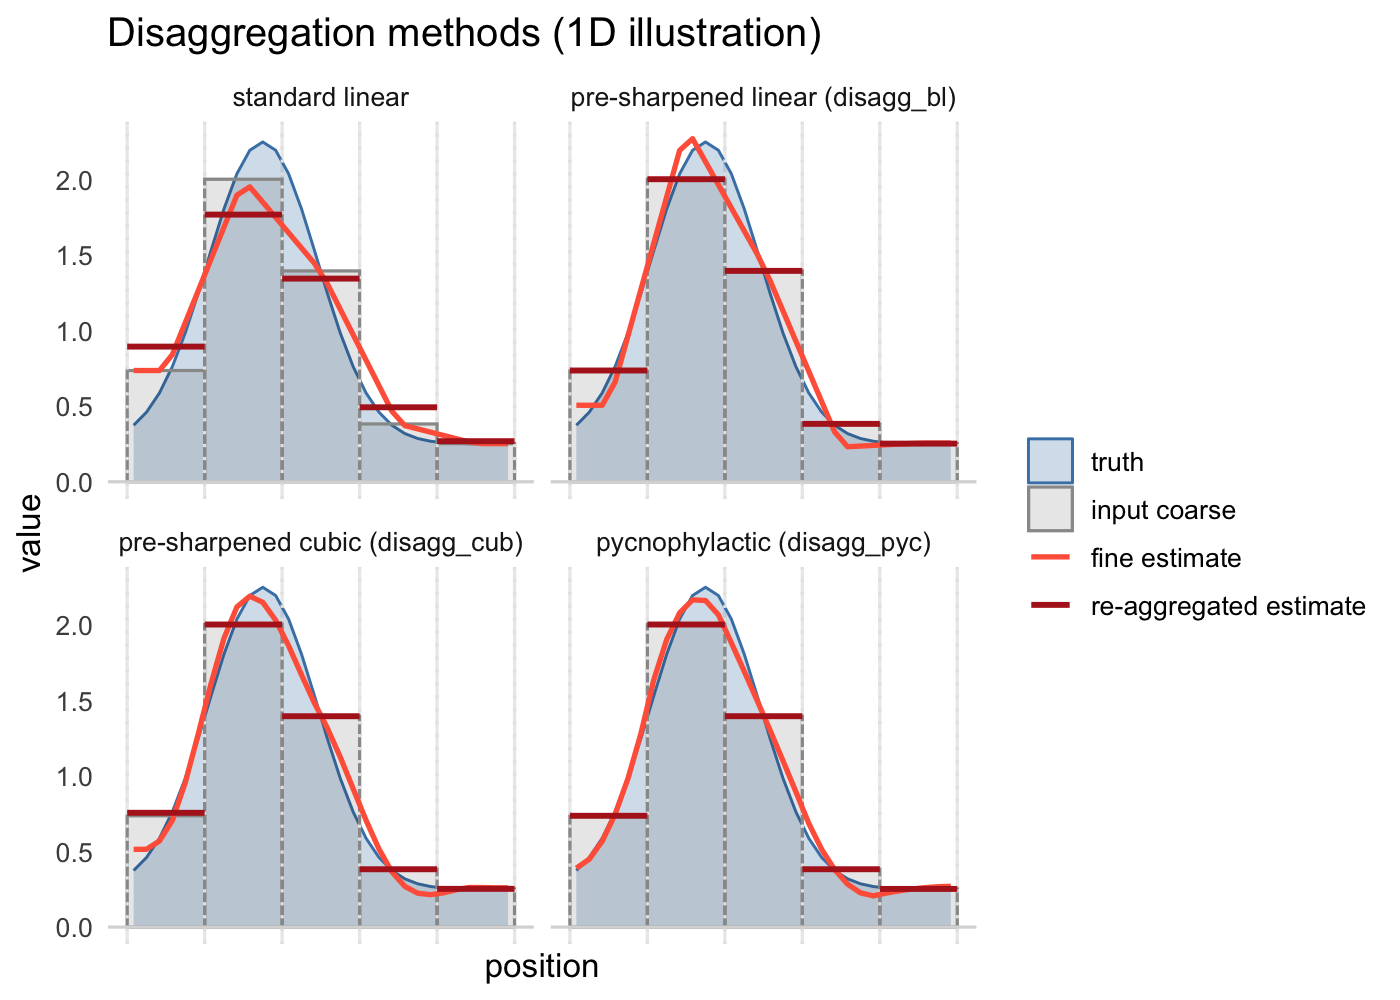
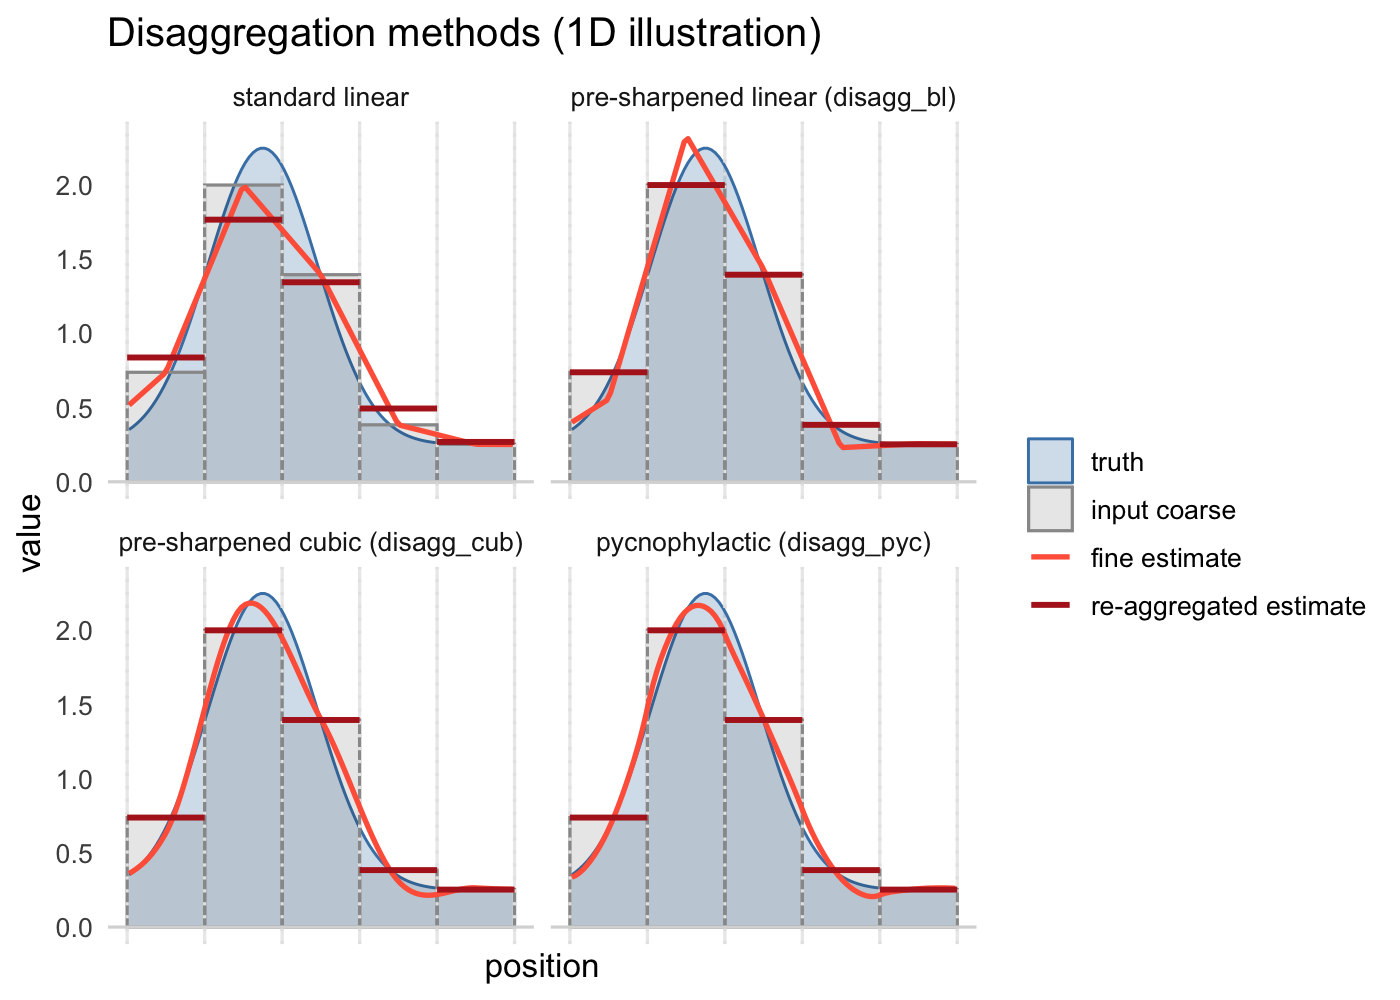
Refactor 1D example to terraces machinery

diff --git a/README.md b/README.md
@@ -34,6 +34,7 @@ are all *mass-preserving* disaggregation methods.
 ### Installation
 
 ``` r
+# install.packages("pak")
 pak::pak("matthewkling/terraces")
 ```
 
@@ -151,8 +152,8 @@ iterations doesn’t remove it. For high-factor use cases, consider
 ## A visual comparison
 
 Here’s a 1D illustration of standard linear interpolation versus the
-three `terraces` methods, using `fact = 50`. The three terraces methods
-are all mass-preserving (aggregation-consistent), but differ in their
+three `terraces` methods. The three terraces methods are all
+mass-preserving (aggregation-consistent), but differ in their
 assumptions about within-block structure.
 
 <img src="man/figures/README-pressure-1.png" alt="" width="100%" />
@@ -162,9 +163,9 @@ cell values (gray bars) represent averages of a likely unknown
 fine-scale pattern (blue curve). Each of the disaggreation methods
 estimates a different fine-scale pattern (orange), which could in theory
 be compared to the truth to assess accuracy. Re-aggregating the
-fine-scale estimates to coarse-scale means (red) clearly fails to
-recover the input values for standard interpolation, but matches them
-closely for the three mass-preserving methods.
+fine-scale estimates to coarse-scale means (red) fails to recover the
+input values for standard interpolation, but matches them closely for
+the three mass-preserving methods.
 
 ## Edge effects
 